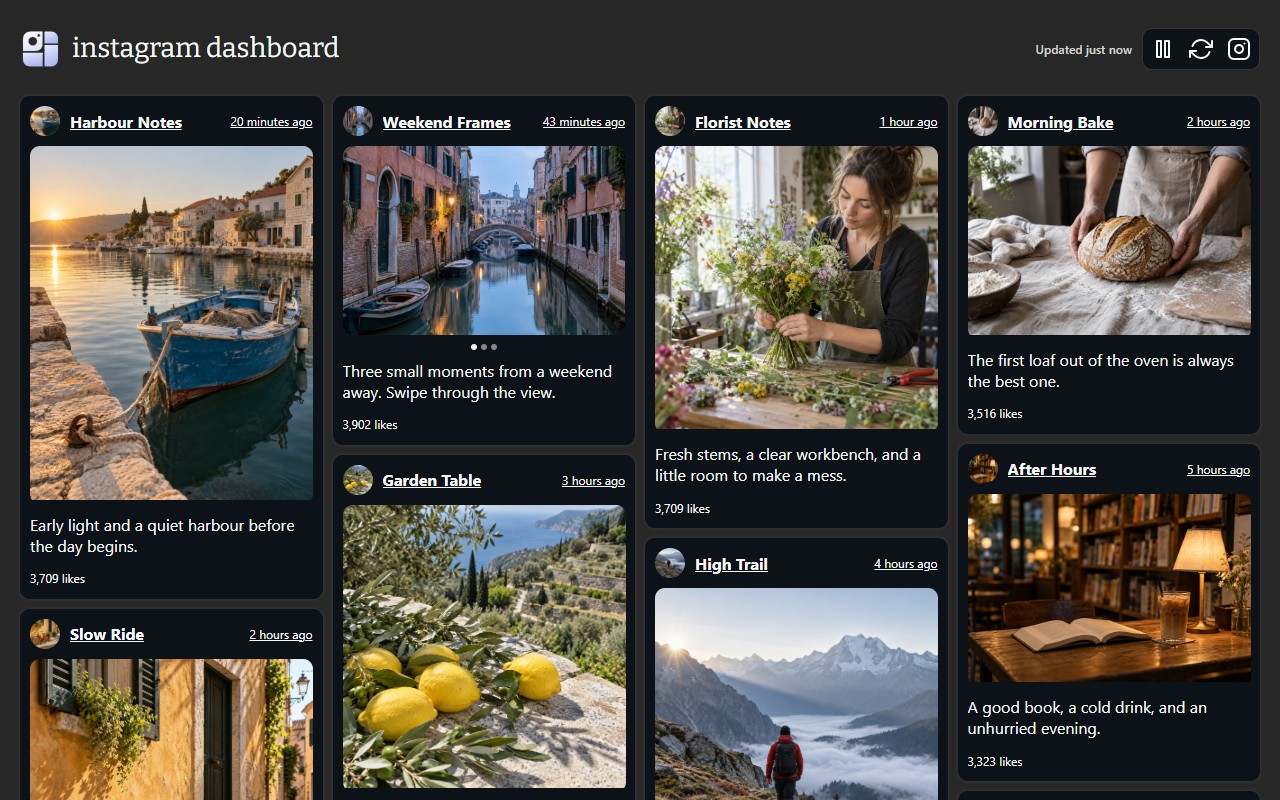
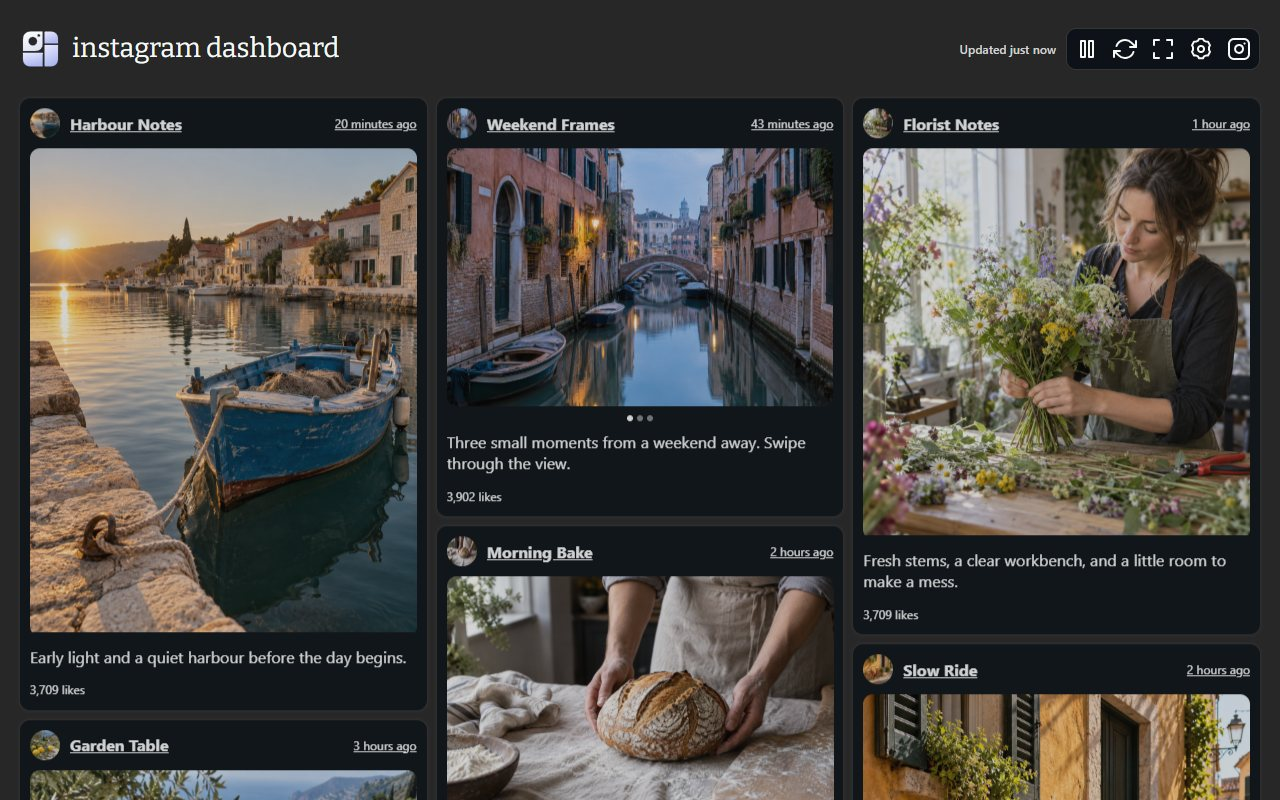
Refresh website copy and feature screenshots

diff --git a/docs/index.html b/docs/index.html
@@ -3,19 +3,19 @@
 <head>
     <meta charset="utf-8">
     <meta name="viewport" content="width=device-width, initial-scale=1">
-    <title>Instagram Dashboard — A full-screen feed for your browser</title>
-    <meta name="description" content="Turn your Instagram home feed into an automatically updating dashboard. Browse a responsive grid, open full-screen media, and enjoy a focused dark interface.">
+    <title>Instagram Dashboard — See more of your feed</title>
+    <meta name="description" content="Browse your Instagram home feed in a responsive dashboard with automatic refresh, older posts on scroll, carousel controls, and optional full-screen mode.">
     <link rel="canonical" href="https://instadash.andrezammit.com/">
     <meta name="robots" content="index, follow">
     <meta name="theme-color" content="#11131a">
     <meta property="og:type" content="website">
     <meta property="og:site_name" content="Instagram Dashboard">
-    <meta property="og:title" content="Instagram Dashboard — Your feed, with room to breathe">
-    <meta property="og:description" content="An automatically updating Instagram feed, a responsive grid, and a focused full-screen viewer. An Instagram browser extension.">
+    <meta property="og:title" content="Instagram Dashboard — See more of your feed">
+    <meta property="og:description" content="Browse a responsive Instagram feed with automatic refresh, older posts on scroll, and optional dashboard full-screen mode.">
     <meta property="og:url" content="https://instadash.andrezammit.com/">
     <meta name="twitter:card" content="summary">
     <meta name="twitter:title" content="Instagram Dashboard">
-    <meta name="twitter:description" content="Give your Instagram feed room to breathe with a full-screen dashboard extension.">
+    <meta name="twitter:description" content="See more of your Instagram feed in a responsive dashboard with automatic refresh and optional full-screen mode.">
     <link rel="icon" type="image/png" href="assets/icon.png">
     <link rel="stylesheet" href="styles.css">
     <script type="application/ld+json">
@@ -24,7 +24,7 @@
         "@type": "SoftwareApplication",
         "name": "Instagram Dashboard",
         "url": "https://instadash.andrezammit.com/",
-        "description": "A browser extension that turns the signed-in Instagram home feed into an automatically updating, full-screen dashboard.",
+        "description": "A browser extension that turns the signed-in Instagram home feed into an automatically updating dashboard with optional full-screen mode.",
         "applicationCategory": "BrowserApplication",
         "operatingSystem": "Windows, macOS, Linux",
         "softwareRequirements": "Google Chrome and a signed-in Instagram account.",
@@ -57,24 +57,28 @@
     <main id="main">
         <section class="hero wrap" aria-labelledby="hero-title">
             <h1 id="hero-title">Your Instagram.<br><span>Room to breathe.</span></h1>
-            <p class="hero-copy">Turn your feed into a full-screen dashboard.<br class="desktop-break"> More moments in view. Less scrolling in between.</p>
+            <p class="hero-copy">See more of your feed in a responsive dashboard.<br class="desktop-break"> Catch up automatically, then enter full screen when you want more room.</p>
             <div class="actions"><a class="button" href="https://chromewebstore.google.com/detail/bofgllabgmnckgnakhicnkbhoanfaidb">Add to Chrome <span aria-hidden="true">↗</span></a><a class="text-link" href="#features">Take a closer look <span aria-hidden="true">↓</span></a></div>
             <p class="hero-note">Free browser extension <span aria-hidden="true">·</span> Available for Chrome</p>
             <figure class="dashboard-preview">
                 <div class="window-bar" aria-hidden="true"><span class="window-dots">● ● ●</span><span>instagram.com · dashboard</span><span class="window-label">A little more perspective</span></div>
-                <img src="assets/dashboard.jpg" width="1280" height="800" fetchpriority="high" alt="Instagram Dashboard in dark mode, showing a four-column grid of photo and carousel posts with captions.">
+                <img src="assets/dashboard.jpg" width="1280" height="800" fetchpriority="high" alt="Instagram Dashboard showing three columns of posts, a refresh status, and the full-screen control in its header.">
             </figure>
         </section>
-        <section class="features wrap" id="features" aria-label="Features">
+        <section class="features wrap" id="features" aria-labelledby="features-title">
+            <div class="features-heading"><p class="eyebrow">Built for browsing</p><h2 id="features-title">More room for what you follow.</h2></div>
             <div class="feature-grid">
-                <article><span class="feature-number">01 / MORE IN VIEW</span><h3>A feed that fits your screen.</h3><p>A responsive grid puts posts side by side and adapts to your window. Give that desktop display something worth displaying.</p></article>
-                <article><span class="feature-number">02 / ALWAYS FRESH</span><h3>Keep up. At your pace.</h3><p>Your feed refreshes automatically every minute. Pause it when you want to linger, or refresh manually whenever you're ready.</p></article>
-                <article><span class="feature-number">03 / KEEP THE MOMENT</span><h3>A good find, one link away.</h3><p>Open original posts or copy a link when you find something worth keeping or sharing.</p></article>
+                <article><span class="feature-number">01 / MORE IN VIEW</span><h3>A feed that fits your screen.</h3><p>Posts fill responsive columns. Scroll for older posts, then use the back-to-top button when you're ready for the latest.</p></article>
+                <article><span class="feature-number">02 / ALWAYS FRESH</span><h3>Keep up. At your pace.</h3><p>New posts arrive first as your feed refreshes every minute. The dashboard catches up when you return, and you can pause or refresh it yourself.</p></article>
+                <article><span class="feature-number">03 / FULL SCREEN</span><h3>Make space for the feed.</h3><p>Enter full-screen mode from the dashboard header. Hide the header too if you like, and press Esc to return to the normal view.</p></article>
+                <article><span class="feature-number">04 / CAROUSELS</span><h3>Move through every moment.</h3><p>Browse with buttons or touchpad gestures. Carousels can also advance while in view and pause when you interact.</p></article>
+                <article><span class="feature-number">05 / PLAYBACK</span><h3>Watch your way.</h3><p>Choose whether muted videos play as you scroll. Open a photo, video, or carousel in the separate media viewer for a closer look.</p></article>
+                <article><span class="feature-number">06 / YOUR CHOICES</span><h3>Pick up where you left off.</h3><p>Choose when the dashboard opens, follow linked captions, and open or copy the original post when you want to share it.</p></article>
             </div>
         </section>
         <section class="viewer-section wrap" aria-labelledby="viewer-title">
             <div class="viewer-image"><img src="assets/media-viewer.jpg" width="1280" height="800" loading="lazy" alt="The extension's full-screen media viewer displaying a Venice canal photograph."></div>
-            <div class="viewer-copy"><p class="eyebrow">One moment. Full focus.</p><h2 id="viewer-title">Some things deserve<br>a closer look.</h2><p>Select a photo, video, or carousel to open the full-screen viewer. Move through the media and take in the details.</p><a class="text-link" href="#install">Make space for your feed <span aria-hidden="true">↗</span></a></div>
+            <div class="viewer-copy"><p class="eyebrow">One moment. Full focus.</p><h2 id="viewer-title">Some things deserve<br>a closer look.</h2><p>Select a photo, video, or carousel to open the separate media viewer. Move through the media and take in the details.</p><a class="text-link" href="#install">Make space for your feed <span aria-hidden="true">↗</span></a></div>
         </section>
         <section class="install-section wrap" id="install" aria-labelledby="install-title">
             <div class="install-intro"><p class="eyebrow">Your feed, opened up.</p><h2 id="install-title">A few clicks.<br>A different view.</h2><p>Add Instagram Dashboard from the Chrome Web Store, then open your feed in a whole new way.</p><a class="button" href="https://chromewebstore.google.com/detail/bofgllabgmnckgnakhicnkbhoanfaidb">Add to Chrome <span aria-hidden="true">↗</span></a></div>
@@ -85,6 +89,7 @@
             <div>
                 <details><summary>Do I need an Instagram account?</summary><p>Yes. The extension uses your existing signed-in Instagram session to load your home feed. You do not need a separate dashboard account or an Instagram API key.</p></details>
                 <details><summary>Is Instagram Dashboard free?</summary><p>Yes. You can install Instagram Dashboard for free from the <a href="https://chromewebstore.google.com/detail/bofgllabgmnckgnakhicnkbhoanfaidb">Chrome Web Store</a>.</p></details>
+                <details><summary>How do I leave full-screen mode?</summary><p>Press Esc to return to the normal dashboard view. If you enable “Hide header in full screen mode” in Settings, the header appears again when you leave full screen.</p></details>
                 <details><summary>What if my feed stops loading?</summary><p>Try reloading Instagram first. Instagram can change its internal endpoints or navigation, so an extension update may sometimes be needed.</p></details>
             </div>
         </section>

diff --git a/docs/styles.css b/docs/styles.css
@@ -41,6 +41,9 @@ h1 span { color: var(--accent); }
 .window-label { color: #9a9ead; }
 .dashboard-preview img { width: 100%; }
 .features { padding-block: 64px 82px; }
+.features-heading { margin-bottom: 34px; }
+.features-heading .eyebrow { margin-bottom: 12px; }
+.features-heading h2 { margin-bottom: 0; }
 h2 { font-size: clamp(2rem, 3.7vw, 3.1rem); line-height: 1.15; letter-spacing: -.045em; font-weight: 550; margin-bottom: 25px; }
 .feature-grid { display: grid; grid-template-columns: repeat(3, 1fr); gap: 42px; }
 .feature-grid article { border-top: 1px solid var(--line); padding-top: 25px; }
